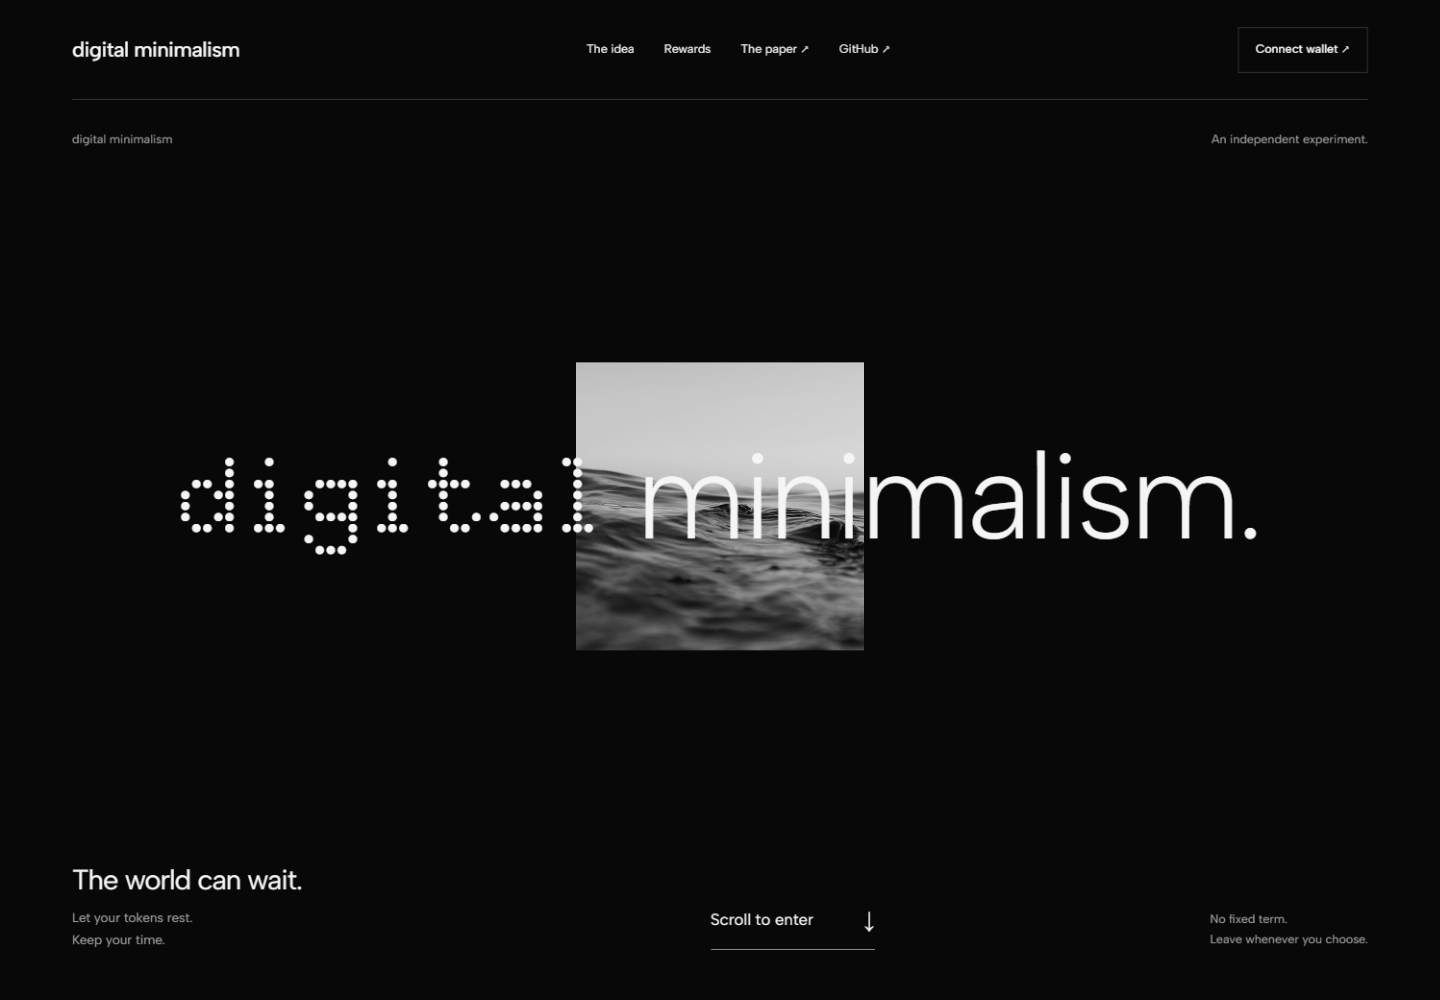
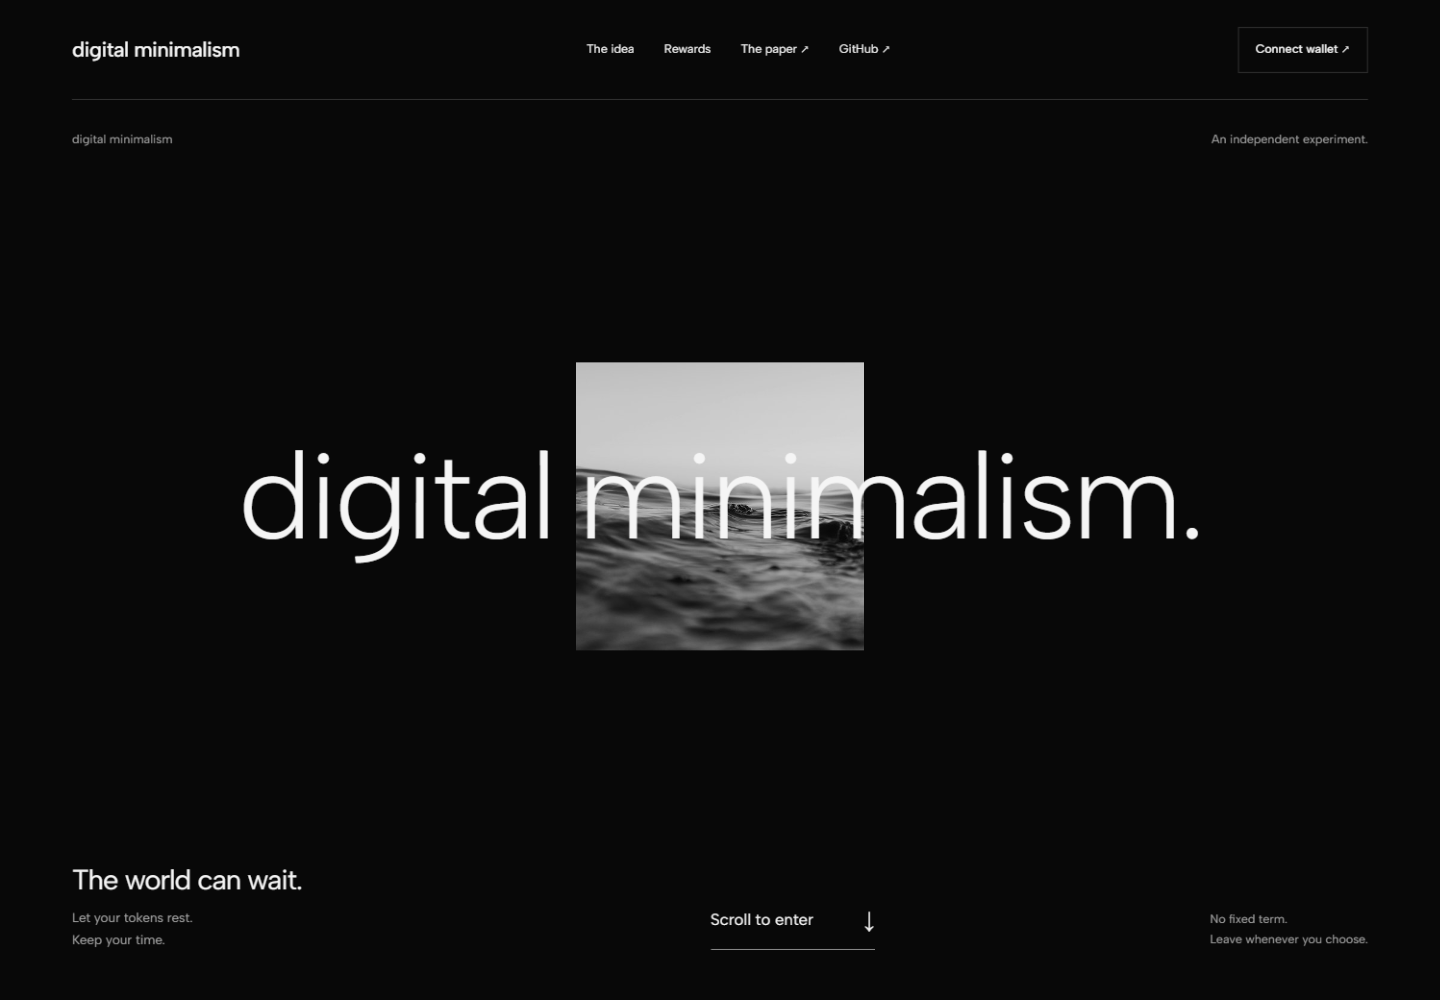
Remove decorative dot type and restore clean light lettering

Changed region(s): [[0.125, 0.434, 0.875, 0.558]]

diff --git a/web/style.css b/web/style.css
@@ -6,13 +6,6 @@
   font-display: swap;
 }
 @font-face {
-  font-family: 'Doto';
-  src: url('/fonts/doto-latin-variable.woff2') format('woff2');
-  font-weight: 400 800;
-  font-style: normal;
-  font-display: swap;
-}
-@font-face {
   font-family: 'IBM Plex Mono';
   src: url('/fonts/ibm-plex-mono-latin-400.woff2') format('woff2');
   font-weight: 400;
@@ -1174,18 +1167,6 @@ dialog p {
   }
 }
 /* digital minimalism is the project; DM is its token. */
-.digital-type,
-.rank-number,
-.step-number {
-  font-family: 'Doto', 'Albert Sans', sans-serif;
-  font-weight: 700;
-  font-variant-numeric: tabular-nums;
-}
-.identity-type > .digital-type {
-  font-size: 0.9em;
-  align-self: center;
-  letter-spacing: -0.04em;
-}
 .funding-facts strong,
 .account-overview strong,
 .amount-field input,
@@ -1199,14 +1180,12 @@ dialog p {
   font-variant-numeric: tabular-nums;
 }
 .rank-number {
-  font-size: 1.625rem;
-  line-height: 1.2;
+  font-family: 'IBM Plex Mono', ui-monospace, monospace;
+  font-size: 0.875rem;
+  font-weight: 400;
+  font-variant-numeric: tabular-nums;
   color: var(--ink);
   min-width: 70px;
-}
-.step-number {
-  font-size: 1.5rem;
-  line-height: 1.2;
 }
 .numeric-time {
   display: block;

diff --git a/web/index.html b/web/index.html
@@ -22,13 +22,6 @@
       type="font/woff2"
       crossorigin
     />
-    <link
-      rel="preload"
-      href="/fonts/doto-latin-variable.woff2"
-      as="font"
-      type="font/woff2"
-      crossorigin
-    />
     <link rel="stylesheet" href="/style.css" />
     <script type="module" src="/app.js"></script>
   </head>
@@ -66,7 +59,7 @@
               />
             </div>
             <span class="identity-type" aria-hidden="true"
-              ><span class="digital-type">digital</span><span>minimalism.</span></span
+              ><span>digital</span><span>minimalism.</span></span
             ></a
           >
           <div class="hero-bottom">
@@ -82,7 +75,7 @@
         <section class="participation section" id="participate" aria-labelledby="participate-title">
           <div class="participation-copy">
             <p class="section-caption">Your time is your own.</p>
-            <h2 id="participate-title">Your <span class="digital-type">DM</span>,<br />offline.</h2>
+            <h2 id="participate-title">Your DM,<br />offline.</h2>
             <p>
               Deposit DM to share each ETH funding, weighted by the amount and time you leave
               offline.

diff --git a/DESIGN.md b/DESIGN.md
@@ -12,7 +12,7 @@ Remove terminal syntax, CLI installation and burn ritual. Replace with a visible
 
 ## Typography and shape
 
-Albert Sans 300–600 is restored as the light primary typeface. Doto uses its rounded dot instance for the hero word “digital”, the display token “DM”, genuine step numbers and two-digit leaderboard places. IBM Plex Mono is reserved for financial values, addresses and the average deposit-time readout. All three are self-hosted with their OFL licenses. Small labels, body copy and controls remain conventional sans-serif. Body 16px/1.65; functional labels, balance captions, field notes, protocol status and transaction details 14px/1.65. Large identity lettering uses weight 300 and -0.03em tracking; participation headings use weight 300, with regular body text and medium control labels. Administration uses a 36px/500 title, 22px/500 section headings, 15px/1.7 explanatory copy and 14px/500 form labels. Wallet and balance numbers use tabular figures. Average time offline is displayed as hours:minutes:seconds, calculated from the contract snapshot as token-seconds divided by deposited DM and refreshed with chain data. It is never a fabricated countdown or proof of personal disconnection. Large identity lettering is a brand graphic, not a functional heading. Square controls and surfaces, no decorative shadows or gradient treatments. Text uses sentence case; financial values preserve exact wallet/contract case where useful.
+Albert Sans 300–600 is restored as the light primary typeface. Brand words, token labels and step numbers use the same clean sans-serif; decorative dot-matrix lettering is withdrawn. Leaderboard places use restrained two-digit monospace figures. IBM Plex Mono is reserved for financial values, addresses and the average deposit-time readout. Both families are self-hosted with their OFL licenses. Small labels, body copy and controls remain conventional sans-serif. Body 16px/1.65; functional labels, balance captions, field notes, protocol status and transaction details 14px/1.65. Large identity lettering uses weight 300 and -0.03em tracking; participation headings use weight 300, with regular body text and medium control labels. Administration uses a 36px/500 title, 22px/500 section headings, 15px/1.7 explanatory copy and 14px/500 form labels. Wallet and balance numbers use tabular figures. Average time offline is displayed as hours:minutes:seconds, calculated from the contract snapshot as token-seconds divided by deposited DM and refreshed with chain data. It is never a fabricated countdown or proof of personal disconnection. Large identity lettering is a brand graphic, not a functional heading. Square controls and surfaces, no decorative shadows or gradient treatments. Text uses sentence case; financial values preserve exact wallet/contract case where useful.
 
 ## Motion and accessibility
 
@@ -28,4 +28,4 @@ Below 760px, participation stacks; process steps become a vertical sequence; pro
 
 ## Assets
 
-Ocean fallback photograph: https://images.unsplash.com/photo-1518837695005-2083093ee35b, local web/images/ocean.jpg. Active typefaces: Albert Sans (web/fonts/albert-sans-OFL.txt), Doto (https://github.com/oliverlalan/Doto; web/fonts/doto-OFL.txt) and IBM Plex Mono (web/fonts/OFL.txt), all self-hosted under SIL OFL. Archivo and Manrope remain archived font assets. No remote analytics, scripts or font requests. Repository cover is native vector typography, not a final logo.
+Ocean fallback photograph: https://images.unsplash.com/photo-1518837695005-2083093ee35b, local web/images/ocean.jpg. Active typefaces: Albert Sans (web/fonts/albert-sans-OFL.txt) and IBM Plex Mono (web/fonts/OFL.txt), all self-hosted under SIL OFL. Archivo and Manrope remain archived font assets. No remote analytics, scripts or font requests. Repository cover is native vector typography, not a final logo.

diff --git a/PRODUCT.md b/PRODUCT.md
@@ -20,7 +20,7 @@ Public surface: keep the newer photographic circular halftone background and res
 
 ## Voice
 
-Typography follows a restrained digital direction: restore Albert Sans as the primary light face, use rounded Doto only for selected large brand words and genuine sequence/rank numbers, and use IBM Plex Mono for financial figures and recorded average deposit time. Reference imagery informs this treatment without changing the accepted page sections, sea grain or dark reading surfaces. Display only real chain-derived values; do not add decorative random numbers or implied live earnings.
+Typography follows a restrained digital direction: restore Albert Sans as the primary light face, keep brand words and token names in clean sans-serif, and use IBM Plex Mono for financial figures, restrained rank numbers and recorded average deposit time. Decorative dot-matrix type is withdrawn. Reference imagery informs this treatment without changing the accepted page sections, sea grain or dark reading surfaces. Display only real chain-derived values; do not add decorative random numbers or implied live earnings.
 
 Brand prose may be literary and restrained. Operational and economic prose must be literal and complete. Original project language must not be attributed to Vitalik. Inspiration never implies affiliation or endorsement. No guaranteed returns, fixed APY, verified human disconnection or automatic creator funding claims.
 

diff --git a/README.md b/README.md
@@ -95,6 +95,6 @@ The administrator can pause **new deposits only** and transfer the role through 
 
 - [Digital minimalism, Vitalik Buterin, 31 October 2026](https://vitalik.eth.limo/general/2026/10/31/digital_minimalism.html).
 - [Stockereum official documentation](https://stockereum.com/docs); [integration verification](docs/STOCKEREUM.md).
-- Albert Sans, Doto and IBM Plex Mono (active); Archivo and Manrope (archived): SIL Open Font License, license files in `web/fonts/`.
+- Albert Sans and IBM Plex Mono (active); Archivo and Manrope (archived): SIL Open Font License, license files in `web/fonts/`.
 - [Ocean image on Unsplash](https://images.unsplash.com/photo-1518837695005-2083093ee35b), stored locally with monochrome treatment.
 - Code: [MIT](LICENSE). Maintained under [DigitalMinimalism0](https://github.com/DigitalMinimalism0).
